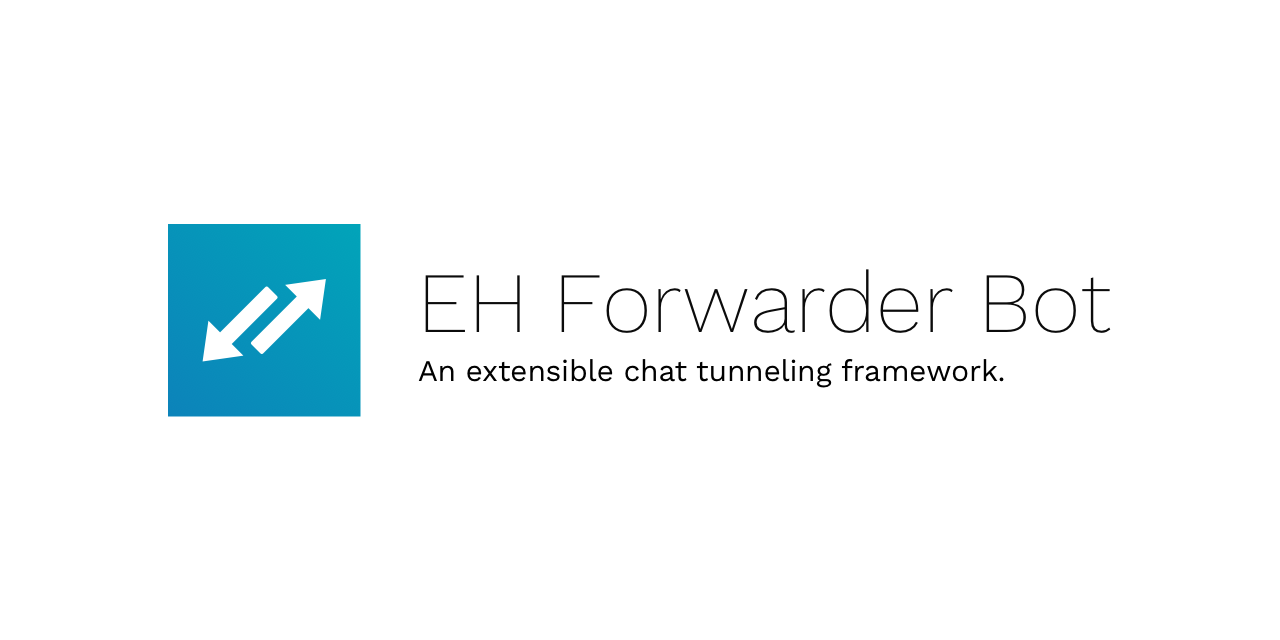
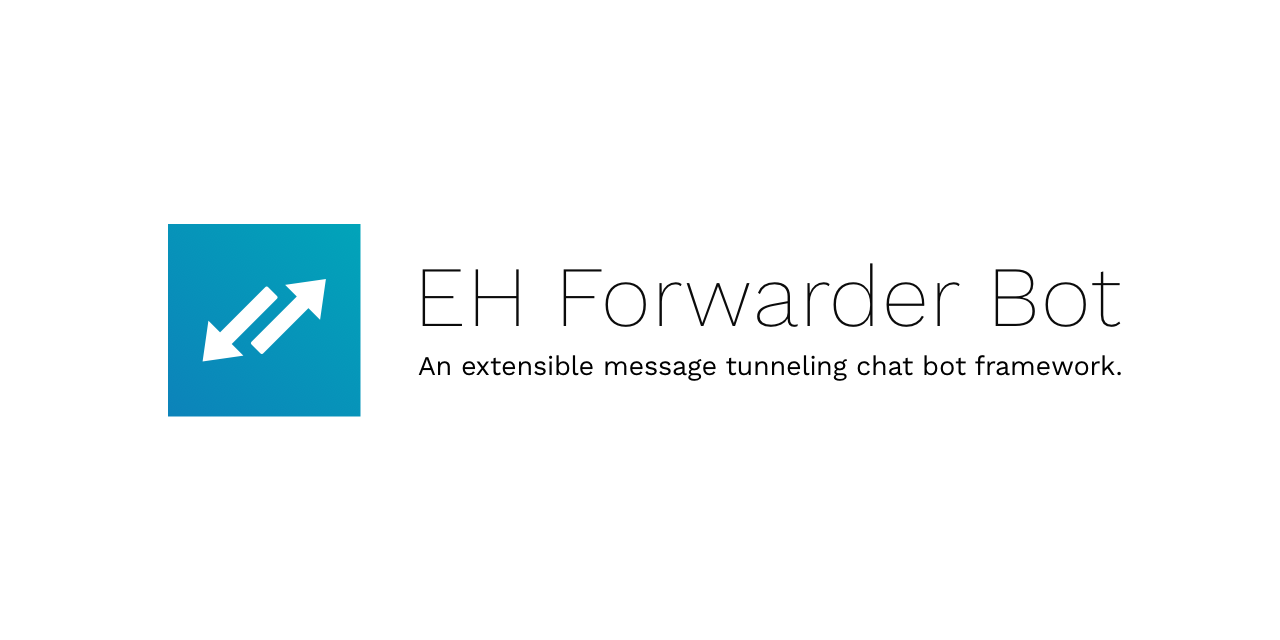
docs: more fancy stuff on README

diff --git a/README.rst b/README.rst
@@ -1,6 +1,5 @@
 EH Forwarder Bot
 ================
-
 .. image:: https://img.shields.io/badge/Python->%3D%203.6-blue.svg
    :alt: Python >= 3.6
    :target: https://www.python.org/
@@ -38,10 +37,24 @@ EH Forwarder Bot
 bot framework which delivers messages to and from multiple platforms and
 remotely control your accounts.
 
-Read the `Documentation`_. For tips, tricks and community contributed articles, see
-`project wiki`_.
+Read the `Documentation`_. For tips, tricks and community contributed 
+articles, see `project wiki`_.
 
 .. _project wiki: https://efb.1a23.studio/wiki
+
+
+.. raw:: html
+
+   <div style="text-align: center" align="center">
+      <img src="https://github.com/blueset/ehforwarderbot/raw/master/assets/EFB.svg" style="height: 64px;" height="64" alt="EH Forwarder Bot"/>
+      <img src="https://github.com/blueset/ehforwarderbot/raw/master/assets/supports.svg" style="height: 64px;" height="64" alt="supports" />
+      <a href="https://etm.1a23.studio"><img src="https://github.com/blueset/ehforwarderbot/raw/master/assets/telegram.svg" style="height: 64px;" height="64" alt="Telegram" /></a>
+      <img src="https://github.com/blueset/ehforwarderbot/raw/master/assets/plus.svg" style="height: 64px;" height="64" alt="and"/>
+      <a href="https://ews.1a23.studio"><img src="https://github.com/blueset/ehforwarderbot/raw/master/assets/wechat.svg" style="height: 64px;" height="64" alt="Wechat"/></a>
+      <a href="https://efms.1a23.studio"><img src="https://github.com/blueset/ehforwarderbot/raw/master/assets/fb-messenger.svg" style="height: 64px;" height="64" alt="Facebook Messenger"/></a>
+      <a href="https://github.com/milkice233/efb-qq-slave/"><img src="https://github.com/blueset/ehforwarderbot/raw/master/assets/qq.svg" style="height: 64px;" height="64" alt="QQ"/></a>
+      <img src="https://github.com/blueset/ehforwarderbot/raw/master/assets/and-more.svg" style="height: 64px;" height="64" alt="and more..."/>
+   </div>
 
 
 Getting Started
